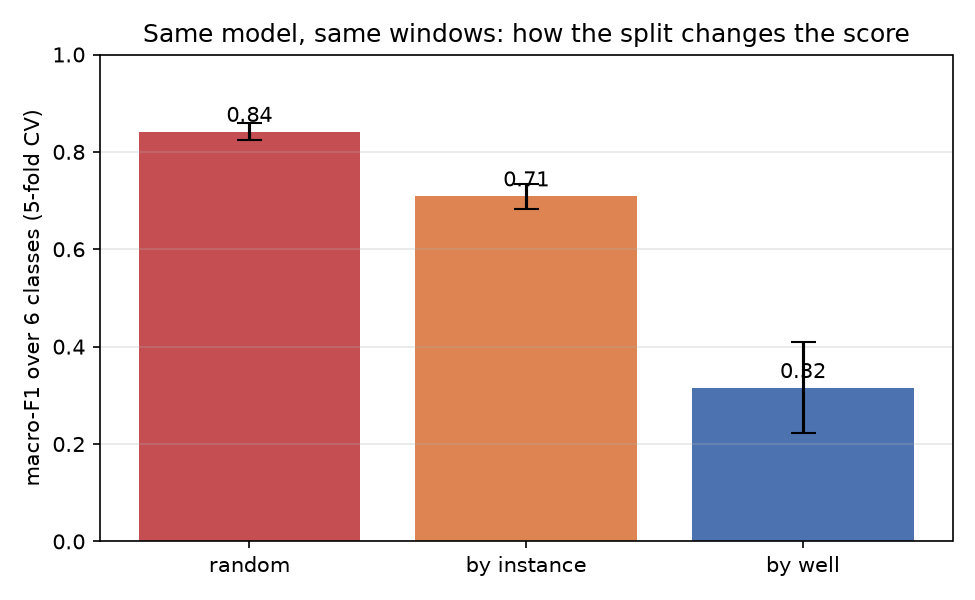
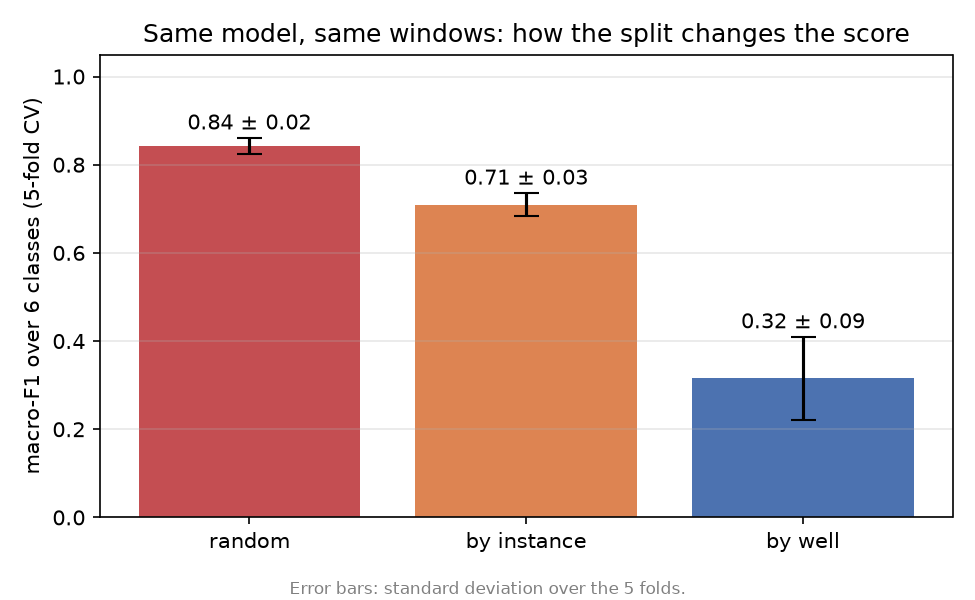
fix: place the split-leakage labels above the error bars

diff --git a/scripts/split_leakage.py b/scripts/split_leakage.py
@@ -80,13 +80,15 @@ def plot(summary: dict, path: Path) -> None:
     stds = [summary["schemes"][n]["macro_f1_std"] for n in names]
     fig, ax = plt.subplots(figsize=(6.5, 4))
     bars = ax.bar(names, means, yerr=stds, capsize=6, color=["#c44e52", "#dd8452", "#4c72b0"])
-    for bar, mean in zip(bars, means):
-        ax.text(bar.get_x() + bar.get_width() / 2, mean + 0.02, f"{mean:.2f}", ha="center")
+    for bar, mean, std in zip(bars, means, stds):
+        # Above the error bar, so the label never overlaps it.
+        ax.text(bar.get_x() + bar.get_width() / 2, mean + std + 0.02, f"{mean:.2f} ± {std:.2f}", ha="center")
     ax.set_ylabel("macro-F1 over 6 classes (5-fold CV)")
-    ax.set_ylim(0, 1)
+    ax.set_ylim(0, 1.05)
     ax.set_title("Same model, same windows: how the split changes the score")
     ax.grid(axis="y", alpha=0.3)
-    fig.tight_layout()
+    fig.text(0.5, 0.01, "Error bars: standard deviation over the 5 folds.", ha="center", fontsize=8, color="grey")
+    fig.tight_layout(rect=(0, 0.04, 1, 1))
     fig.savefig(path, dpi=150)
 
 
@@ -94,7 +96,12 @@ def main() -> None:
     parser = argparse.ArgumentParser(description=__doc__, formatter_class=argparse.RawDescriptionHelpFormatter)
     parser.add_argument("windows_dir", type=Path)
     parser.add_argument("out_dir", type=Path)
+    parser.add_argument("--plot-only", action="store_true", help="redraw the chart from the saved JSON")
     args = parser.parse_args()
+    if args.plot_only:
+        summary = json.loads((args.out_dir / "split_leakage.json").read_text(encoding="utf-8"))
+        plot(summary, args.out_dir / "split_leakage.png")
+        return
     summary = run(args.windows_dir)
     args.out_dir.mkdir(parents=True, exist_ok=True)
     (args.out_dir / "split_leakage.json").write_text(json.dumps(summary, indent=1), encoding="utf-8")
